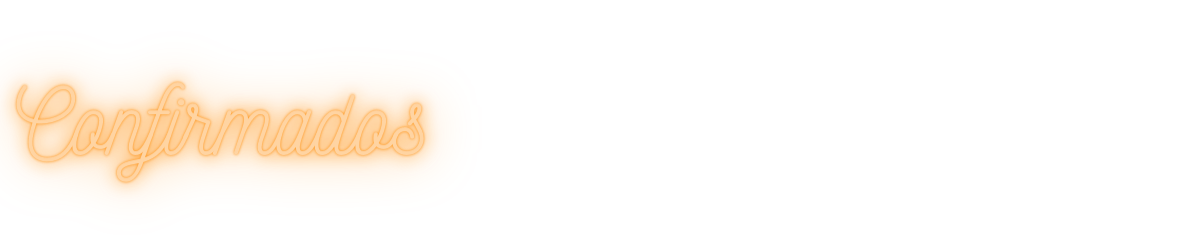
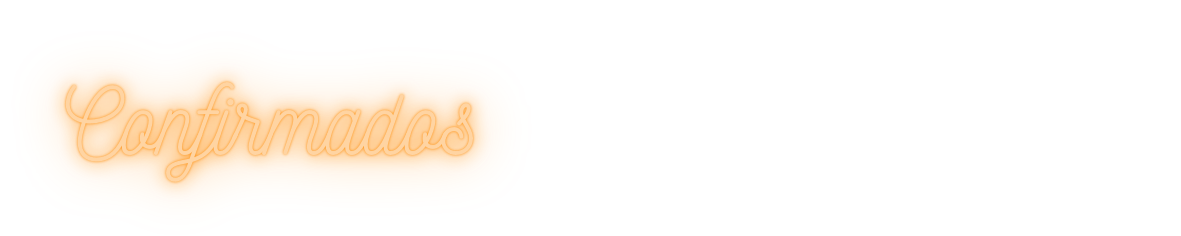
events buttons

Changed region(s): [[0.0, 0.3263, 0.4268, 0.8008]]

diff --git a/drole-backend/src/main/resources/calendario/index.js b/drole-backend/src/main/resources/calendario/index.js
@@ -12,7 +12,6 @@ window.onload = () => {
     .addEventListener("change", function () {
       document.getElementById("table-events").innerHTML = "";
 
-
       let tablePendentes = document.getElementById("table-pending-events");
       if (tablePendentes) tablePendentes.remove();
 
@@ -33,7 +32,8 @@ window.onload = () => {
   // Se o usuário for do tipo estabelecimento ou adm poderá ver o botão de adicionar evento
   if (user_type == 2 || user_type == 4) {
     $(
-      '<input type="button" class="btn btn-success" id="btnInsert" value="Adicionar evento" data-toggle="modal" data-target="#calendarioModal">'
+      `<button data-bs-toggle="tooltip" data-bs-placement="top" title="Adicionar Evento" class="btn-event" type="button" value="Adicionar evento" id="btnInsert" data-toggle="modal" data-target="#calendarioModal">
+                      <img id="btn-accept-img" src="../images/AddEvento.gif" alt="Adicionar Evento"></button>`
     ).appendTo("#buttonAddEvent");
   }
 
@@ -127,16 +127,18 @@ function showEvents(filtro) {
   let current_id = JSON.parse(localStorage.getItem("currentUser")).id;
   let userType = JSON.parse(localStorage.getItem("currentUser")).userType;
 
-  // if(filtro == "Recusados"){
-  //   document.getElementById("table-title").innerHTML = "Eventos Recusados";
-  // }else{
-  //   document.getElementById("table-title").innerHTML = "Eventos Confirmados";
-  // }
+  if (filtro == "Recusados") {
+    document.getElementById("table_title").src =
+      "../images/títuloRecusados.png";
+  } else {
+    document.getElementById("table_title").src =
+      "../images/títuloConfirmados.png";
+  }
 
   if (userType == 2 || userType == 3 || userType == 4) {
     $(`<div class="col-sm-12">
     <table id="grid-events1" class="table table-striped">
-        <img id="tituloSec" src="../images/títuloPendentes.png" alt="Eventos Pendentes">
+        <img id="pending-table-title" class="tituloSec" src="../images/títuloPendentes.png" alt="Eventos Pendentes">
         <thead>
             <tr>
                 <th scope="col">Nome</th>    
@@ -145,7 +147,7 @@ function showEvents(filtro) {
                 <th scope="col">Músico</th>
                 <th scope="col">Tipo músical</th>
                 <th scope="col">Entrada</th>
-                <th scope="col">Status</th>
+                <th id="status-th" scope="col">Status</th>
             </tr>
         </thead>
         <tbody id="table-pending-events">
@@ -177,7 +179,6 @@ function showEvents(filtro) {
           } else {
             entrance = "18-";
           }
-          console.log(event_status);
 
           if (event_status == "Pendente") {
             if (userType == 3 || userType == 4) {
@@ -189,10 +190,11 @@ function showEvents(filtro) {
                       <td scope="row"> ${musicianName}</td>
                       <td scope="row"> ${musicalStyle}</td>
                       <td scope="row"> ${entrance}</td>
-                      <td scope="row"> <button class="btn-event" type="button" value="${eventId}" id="btn-accept-event-${eventId}">
+                      <td scope="row"> <button data-bs-toggle="tooltip" data-bs-placement="top" title="Aceitar Evento" class="btn-event" type="button" value="${eventId}" id="btn-accept-event-${eventId}">
                       <img id="btn-accept-img" src="../images/check.png" alt="Aceitar Evento" width="30px" height="30px"></button>
-                                       <button class="btn-event" type="button" value="${eventId}" id="btn-deny-event-${eventId}" >
+                                       <button data-bs-toggle="tooltip" data-bs-placement="top" title="Recusar Evento" class="btn-event" type="button" value="${eventId}" id="btn-deny-event-${eventId}" >
                       <img id="btn-deny-img" src="../images/X.png" alt="Recusar Evento" width="30px" height="30px"></button> </td>
+                      
                     </tr>`).appendTo("#table-pending-events");
 
               document.addEventListener("click", function (e) {
@@ -218,7 +220,7 @@ function showEvents(filtro) {
                     <td scope="row"> ${musicianName}</td>
                     <td scope="row"> ${musicalStyle}</td>
                     <td scope="row"> ${entrance}</td>
-                    <td scope="row"><img id="btn-pendent-img" src="../images/interrogacao.png" alt="" width="30px" height="30px">
+                    <td scope="row"><img data-bs-toggle="tooltip" data-bs-placement="top" title="Aguardando Resposta do Músico" id="btn-pendent-img" src="../images/interrogacao.png" alt="" width="30px" height="30px">
                    </tr>`).appendTo("#table-pending-events");
               //}
             }

diff --git a/drole-backend/src/main/resources/calendario/index.html b/drole-backend/src/main/resources/calendario/index.html
@@ -22,9 +22,7 @@
         <nav class="navbar navbar-expand-lg navbar-light">
             <div class="container">
                 <a class="navbar-brand" href="#">
-                    <img src="../images/Logo.svg" alt="logo" class="static" width="100px" height="100px">
                     <img src="../images/Logo.gif" alt="logo" class="active" width="100px" height="100px">
-                    <!-- <img src="../images/logo transparente.png" width="80px" height="60px" alt="Logo"> -->
                 </a>
                 <button class="navbar-toggler" type="button" data-toggle="collapse"
                     data-target="#navbarSupportedContent" aria-controls="navbarSupportedContent" aria-expanded="false"
@@ -59,16 +57,12 @@
 
     <!-- Alertas -->
     <div class="container">
-        <div class="row">
-            <div id="msg" class="col-sm-10 offset-sm-1 ">
-                <!--<div class="alert alert-warning"></div>-->
-            </div>
-        </div>
+
         <!-- End alertas -->
 
 
         <div class="form-group row">
-            <div id="buttonAddEvent" class="col-sm-6">
+            <div id="buttonAddEvent" class="col-sm-12">
                 <!-- JS BUTTON AQ -->
             </div>
 
@@ -91,26 +85,30 @@
                 </table>
             </div> -->
         </div>
-        <div class="row">
-            <div class="col-sm-6">
-                <select id="filter-musical-style">
-                    <option value="Todos" selected="selected">Todos</option>
-                    <option value="Pop">Pop</option>
-                    <option value="Funk">Funk</option>
-                    <option value="Rock">Rock</option>
-                    <option value="Axe">Axe</option>
-                    <option value="Sertanejo">Sertanejo</option>
-                    <option value="Eletrônica">Eletrônica</option>
-                    <option value="Clássica">Clássica</option>
-                    <option value="Pagode">Pagode</option>
-                    <option value="Samba">Samba</option>
-                </select>
-            </div>
-        </div>
+
         <div class="row" id="div-scnd-table-events">
             <div class="col-sm-12">
                 <table id="grid-events2" class="table table-striped">
-                <img id="tituloSec" src="../images/títuloConfirmados.png" alt="Eventos Confirmados">
+                    <div>
+                        <img id="table_title" src="" alt="Eventos Confirmados">
+                        <div id="filter-select">
+                            <select id="filter-musical-style">
+                                <div id="select-options">
+                                <option value="Todos" selected="selected">Todos</option>
+                                <option value="Pop">Pop</option>
+                                <option value="Funk">Funk</option>
+                                <option value="Rock">Rock</option>
+                                <option value="Axe">Axe</option>
+                                <option value="Sertanejo">Sertanejo</option>
+                                <option value="Eletrônica">Eletrônica</option>
+                                <option value="Clássica">Clássica</option>
+                                <option value="Pagode">Pagode</option>
+                                <option value="Samba">Samba</option>
+                            </div>
+                            </select>
+                        </div>
+                    </div>
+
                     <thead>
                         <tr>
                             <th scope="col">Nome</th>

diff --git a/drole-backend/src/main/resources/calendario/calendario.css b/drole-backend/src/main/resources/calendario/calendario.css
@@ -25,29 +25,78 @@ h1 {
 }
 
 #titulo {
-  width: 800px;
+  width: 700px;
   display: block;
   margin-left: auto;
   margin-right: auto;
 }
-#tituloSec {
-  width: 400px;
-  display: block;
+
+.modal-header, .modal-body, .modal-footer{
+  background-color: #121313 !important;
+}
+
+#btnInsert img{
+  width: 200px;
+  height: 40px;
+}
+
+#btnInsert{
+  float: right;
+}
+
+#table_title,
+#pending-table-title {
+  width: 400px !important;
+  display: inline;
+}
+
+#filter-select {
+  margin-top: 25px;
+  display: inline;
+  float: right;
+}
+
+#filter-musical-style {
+  background-color: #121313 !important;
+  border-radius: 10px;
+  border-color: transparent;
+  color: rgb(230, 225, 225);
+  text-align: center;
+  height: 30px;
+  width: 11vw;
+  padding: 0 3px 0 5px;
+  cursor: pointer;
 }
 
 body {
   background: #121313 !important;
 }
 
-.btn-event{
+.btn-event {
   background-color: transparent;
   padding: 0;
   border: 0;
   cursor: pointer;
 }
 
-#btn-pendent-img{
+
+#btn-pendent-img {
   padding: 0;
   border: 0;
   margin: 0;
+}
+
+#div-first-table-events,
+#div-scnd-table-events,
+table {
+  color: rgb(230, 225, 225);
+  border-collapse: collapse;
+  background-color: rgba(0, 0, 0, 0.39);
+  border-radius: 20px;
+  margin-bottom: 20px;
+}
+
+th,
+td {
+  border: 1px solid black !important;
 }

diff --git a/drole-backend/src/main/resources/styles/cabecalho.css b/drole-backend/src/main/resources/styles/cabecalho.css
@@ -15,12 +15,5 @@ a.nav-link{
 .menu_area nav a:hover{
     background-color: #121313;
 }
-.static {
-    position:absolute;
-    background: white;
-}
-  
-.static:hover {
-    opacity:0;
-}
+
 /* COLOCAR EM TODOS CSS */
